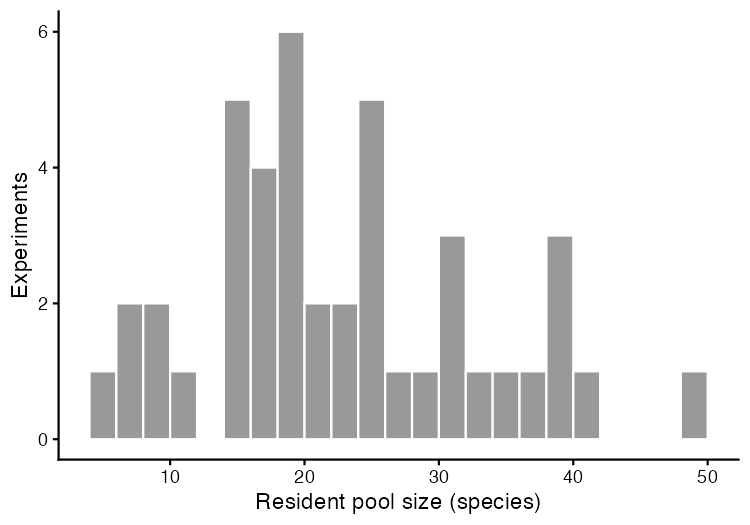
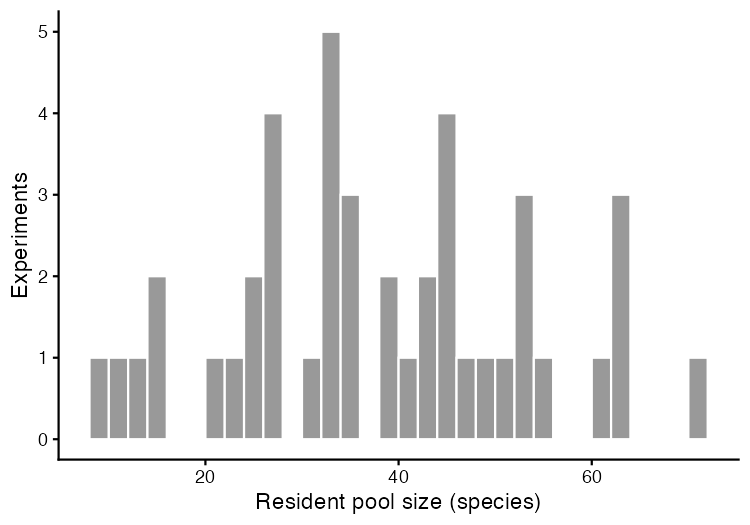
step 01: back to the original pool rule (>= 2 plot-year records; 30 Oct, stricter rule reverted): 1,655 residents, 856 destination pool; cut-off diagnostic kept

diff --git a/reports/01_relative_cover.md b/reports/01_relative_cover.md
@@ -1,6 +1,6 @@
 # Step 01: Relative cover table and pools
 
-Relative cover was computed per plot-year over all 58,803 vascular records (identified, genus-level and unidentified, the six deep-lineage taxa included), so it sums to 1 in every one of 3,210 plot-years. The analysis keeps identified species without a `drop_reason` and removes the deep-lineage taxa afterwards. Each of the 43 included experiments gets its warmed turfs, origin controls and destination controls; a species is resident if recorded in at least half of the origin-control plots and in at least 2 years of origin controls, and in the destination pool if recorded likewise in the destination controls and never in the origin controls, whether or not it was ever found in warmed turfs. Every included experiment goes forward (no pool-size rule), all observed cover is kept, and every pool species gets a row, zero where unrecorded, in every surveyed plot-year of its pool's two groups.
+Relative cover was computed per plot-year over all 58,803 vascular records (identified, genus-level and unidentified, the six deep-lineage taxa included), so it sums to 1 in every one of 3,210 plot-years. The analysis keeps identified species without a `drop_reason` and removes the deep-lineage taxa afterwards. Each of the 43 included experiments gets its warmed turfs, origin controls and destination controls; a species is resident with at least 2 plot-year records in origin controls, in the destination pool with at least 2 in destination controls and fewer than 2 in origin controls, whether or not it was ever found in warmed turfs. Every included experiment goes forward (no pool-size rule), all observed cover is kept, and every pool species gets a row, zero where unrecorded, in every surveyed plot-year of its pool's two groups.
 
 ## Counts at every rule (`flow_counts.csv`, Fig S1)
 
@@ -9,21 +9,20 @@ Relative cover was computed per plot-year over all 58,803 vascular records (iden
 | input (P1 community, identified species) | all | 44 | 886 | 3340 |
 | experiment exclusions (P1) | all | 43 | 869 | 3309 |
 | deep-lineage taxa removed | all | 43 | 863 | 3278 |
-| pool rule (>= half of a control group's plots and >= 2 years; destination pool: no origin-control record) | all | 43 | 435 | 1405 |
-| pool assignment | resident | 43 | 348 | 995 |
-| pool assignment | destination_pool | 41 | 237 | 410 |
+| observation filter (>= 2 plot-year records in a control group) | all | 43 | 681 | 2511 |
+| pool assignment | resident | 43 | 528 | 1655 |
+| pool assignment | destination_pool | 43 | 414 | 856 |
 
 Species x experiment combinations in neither pool:
 
 | reason | species_x_experiment |
 | --- | --- |
-| in destination controls only, below the destination-pool rule | 589 |
-| in origin controls, below the resident rule | 1028 |
+| below the filter in both control groups | 511 |
 | warmed only | 256 |
 
 ## Cut-offs for pool membership (diagnostic, added 30 Oct)
 
-Plot-year records per species x experiment in each group, from all records before any pool rule, and what a fixed cut-off of at least k plot-year records would keep. Species with a single record are the most common count in every group (Origin controls 368, Warmed plots 475, Destination controls 403); beyond k = 2 the counts decline without a break. The pool rule in use (at least half of a group's plots and at least two years) keeps 995 resident effects.
+Plot-year records per species x experiment in each group, from all records before any pool rule, and what a fixed cut-off of at least k plot-year records would keep. Species with a single record are the most common count in every group (Origin controls 368, Warmed plots 475, Destination controls 403); beyond k = 2 the counts decline without a break. The pool rule in use is k = 2 (kept 30 Oct after a stricter rule of half of a group's plots and two years was tried and reverted), which keeps 1,655 resident effects.
 
 ![Plot-year records and cut-offs](../figures/diagnostics/01_pool_cutoffs.png)
 
@@ -78,23 +77,23 @@ Share of plot-year cover in rows not analysed, by region:
 
 ## Pool sizes (`pool_sizes.csv`)
 
-No pool-size rule (dropped 29 Oct): all 43 included experiments go forward. Smallest resident pools: US_Arizona::MC::PP 4; DE_Susalps::FE::BT 7; US_Montana::High::Low 7. US_Arizona, which PLAN.md expected to leave with about four residents in the legacy relative cover, has 4 on the SQLite's absolute cover (kept, decided 28 Oct).
+No pool-size rule (dropped 29 Oct): all 43 included experiments go forward. Smallest resident pools: US_Arizona::MC::PP 8; DE_Susalps::FE::BT 12; SE_Abisko::Mid::Low 13. US_Arizona, which PLAN.md expected to leave with about four residents in the legacy relative cover, has 8 on the SQLite's absolute cover (kept, decided 28 Oct).
 Gradients (`gradient_id` = region): 21.
 
 ![Resident pool size per experiment](../figures/diagnostics/01_pool_sizes.png)
 
 | experiment_id | region | resident | destination_pool |
 | --- | --- | --- | --- |
-| US_Arizona::MC::PP | US_Arizona | 4 | 4 |
-| DE_Susalps::FE::BT | DE_Susalps | 7 | 6 |
-| US_Montana::High::Low | US_Montana | 7 | 14 |
-| SE_Abisko::High::Low | SE_Abisko | 9 | 5 |
-| SE_Abisko::High::Mid | SE_Abisko | 9 | 5 |
-| SE_Abisko::Mid::Low | SE_Abisko | 11 | 2 |
-| CN_Gongga::H::A | CN_Gongga | 16 | 12 |
-| CN_Gongga::H::L | CN_Gongga | 16 | 7 |
-| US_Colorado::mo::pf | US_Colorado | 16 | 5 |
-| US_Colorado::mo::um | US_Colorado | 16 | 14 |
+| US_Arizona::MC::PP | US_Arizona | 8 | 15 |
+| DE_Susalps::FE::BT | DE_Susalps | 12 | 18 |
+| SE_Abisko::Mid::Low | SE_Abisko | 13 | 10 |
+| SE_Abisko::High::Low | SE_Abisko | 16 | 12 |
+| SE_Abisko::High::Mid | SE_Abisko | 16 | 8 |
+| DE_TransAlps::FP::BT | DE_TransAlps | 21 | 25 |
+| IT_MatschMazia2::High::Low | IT_MatschMazia2 | 24 | 24 |
+| NO_Lavisdalen::Hogsete::Vikesland | NO_Lavisdalen | 26 | 10 |
+| US_Colorado::pf::um | US_Colorado | 26 | 13 |
+| US_Colorado::mo::pf | US_Colorado | 27 | 10 |
 
 ## Survey years failing the both-groups rule (1 experiment-years)
 
@@ -121,8 +120,8 @@ A0 = log(100 x mean relative cover over the control plots of the group's first s
 
 ## Table and spot check
 
-`cover_long`: 94,705 rows, 43 experiments, 21 gradients, 1,405 species x experiment combinations (995 resident, 410 destination pool); 45,795 rows observed, 48,910 zeros.
-Spot check, US_Arizona::MC::PP: pool species x surveyed plot-years of their groups = 448, rows written = 448 (286 zeros + 162 observed records).
+`cover_long`: 166,644 rows, 43 experiments, 21 gradients, 2,511 species x experiment combinations (1,655 resident, 856 destination pool); 55,233 rows observed, 111,411 zeros.
+Spot check, US_Arizona::MC::PP: pool species x surveyed plot-years of their groups = 1,288, rows written = 1,288 (1,050 zeros + 238 observed records).
 
 ## Warnings captured
 
@@ -130,4 +129,4 @@ Spot check, US_Arizona::MC::PP: pool species x surveyed plot-years of their grou
 
 ## Deviations from PLAN.md
 
-Relative cover includes the six deep-lineage taxa in its denominator and removes them afterwards (decided 28 Oct; PLAN.md Data rules updated). The pool rule decides pool membership only; observed cover of pool species is kept whatever its count (decided 28 Oct; legacy removed it per treatment).
+Relative cover includes the six deep-lineage taxa in its denominator and removes them afterwards (decided 28 Oct; PLAN.md Data rules updated). The observation filter decides pool membership only; observed cover of pool species is kept whatever its count (decided 28 Oct; legacy removed it per treatment).
